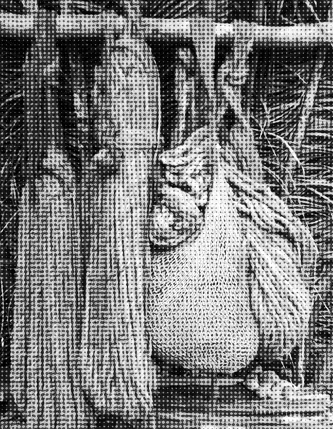
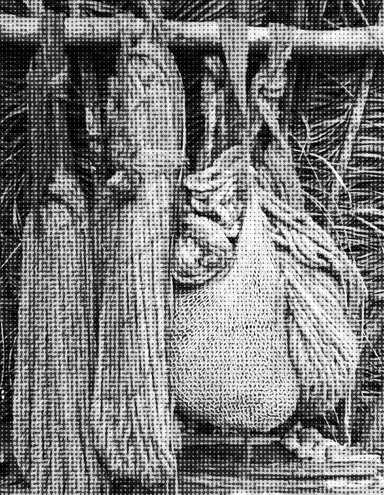
Thin the intro collage and re-place what is left
Seven pieces were too many. Out go the second forest canopy, which sat under
the Yasuni piece in the left column and read as one mass with it, and the
jaguar, which at 11.7% of the viewport was a patch of spots rather than an
animal. Both recipes are kept in DROPPED in build_intro_art.py, because
finding the crop is the expensive part, not running it.

The five left are re-placed so that each globe sits beside the photograph it
belongs with instead of floating on its own margin. On the left the globe goes
between the forest and the nets, and the nets move out to the edge and up in
size. On the right the portrait goes flush to the edge and the globe tucks in
beside it.

The canoe is pulled back off its subject. Cropped tight it read as a close
group of figures; from further out it is people on a river, which is what the
piece is there to say.

681 KB of photographs, from 850.

diff --git a/src/config.js b/src/config.js
@@ -27,31 +27,18 @@ export default {
     //   onMobile  include in the top strip on narrow screens
     art: [
       { src: '/intro-art/yasuni-canopy.webp', left: '0%', top: '10%', width: '24.3%', onMobile: true },
-      { src: '/intro-art/acre-forest.webp', left: '0%', top: '34%', width: '24.3%' },
-      // Flush to the left edge (the file has no transparent gutter), and lifted
-      // clear of the social icons, which start at 90.8% of the viewport. That
-      // lift means it no longer centres exactly on the "scroll down to
-      // discover" cue at 78.7% — it now sits a little above it. Sized by
-      // height so its vertical placement holds as the window reshapes.
-      // Listed after the forest piece so it stacks above the one overhead.
-      { src: '/intro-art/earth-left.webp', left: '0%', top: '60.5%', height: '28.2%' },
-      // Tucked against the right edge of the map, below the standfirst. Small
-      // and low: at 1024 px the standfirst reaches further left than it does
-      // on a wide screen, and a bigger piece here ends up touching it.
-      { src: '/intro-art/massaco-nets.webp', left: '13%', top: '66%', width: '9.5%' },
-      // The middle piece of the phone strip, which is the one that matters.
-      // That strip is a centred flex row at 24vh with its overflow cut off, so
-      // what survives is whatever sits at the middle of the row: at 390 px the
-      // three mobile pieces come to 894 and the window falls on 252-642, which
-      // is this one entire, with a slice of forest before it and most of the
-      // canoe after. Ordering here is therefore composition, not just stacking.
-      { src: '/intro-art/machiguenga-girl.webp', left: '74.4%', top: '5%', width: '12.6%', onMobile: true },
-      { src: '/intro-art/jaguar.webp', left: '88.3%', top: '5%', width: '11.7%' },
-      // Directly below the jaguar strip, which ends at 10.6%. Anchored right
-      // so it stays flush to the edge at any viewport shape.
-      { src: '/intro-art/earth-right.webp', right: '0%', top: '16%', height: '28.2%' },
+      // The globe sits under the forest piece's bottom edge and over the nets
+      // below it, which is what ties the three into one column rather than
+      // three things stacked at the same margin.
+      { src: '/intro-art/earth-left.webp', left: '0%', top: '38%', height: '28.2%' },
+      { src: '/intro-art/massaco-nets.webp', left: '0%', top: '64%', width: '12%' },
+      // Flush to the right edge, and the tallest thing on that side. Listed
+      // before the globe so the globe cannot be covered by it; they do not
+      // overlap, but the order is what guarantees that.
+      { src: '/intro-art/machiguenga-girl.webp', right: '0%', top: '5%', width: '12.6%', onMobile: true },
+      { src: '/intro-art/earth-right.webp', left: '76.5%', top: '16%', height: '28.2%' },
       { src: '/intro-art/javari-river.webp', left: '79.3%', top: '46%', width: '20.7%' },
-      { src: '/intro-art/canoe-group.webp', left: '75.7%', top: '70%', width: '24.3%', onMobile: true },
+      { src: '/intro-art/canoe-group.webp', left: '75.7%', top: '68%', width: '24.3%', onMobile: true },
     ],
 
     social: [
